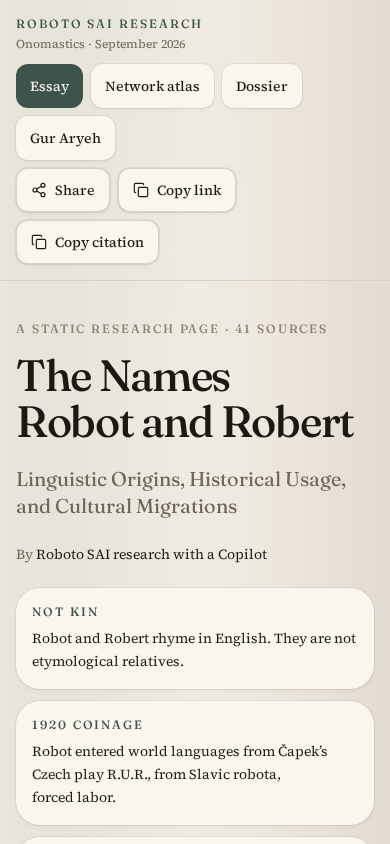
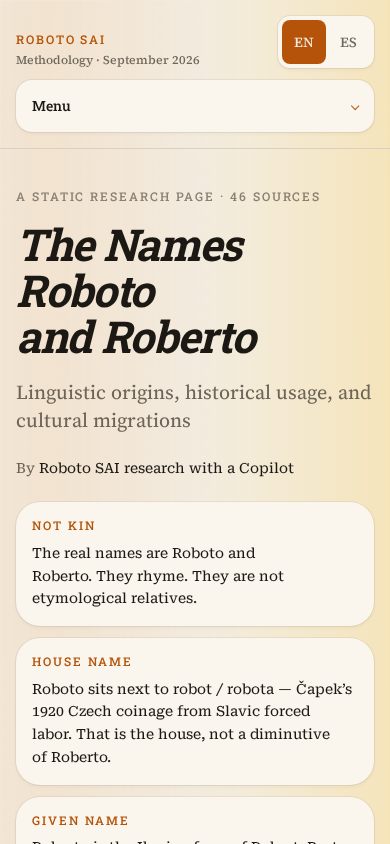
Export from Grok

diff --git a/src/styles.css b/src/styles.css
@@ -7,14 +7,25 @@
   --color-fg: #1c1915;
   --color-muted: #6d6558;
   --color-subtle: #8a8173;
-  --color-primary: #3e534c;
+  --color-primary: #b45309;
   --color-primary-fg: #f3eee4;
   --color-border: #d9d0c3;
   --color-rule: #b8ad9c;
   --color-ink-soft: #2a2620;
 
-  --font-display: "Fraunces", "Iowan Old Style", "Palatino Linotype", Palatino, serif;
-  --font-serif: "Source Serif 4", "Iowan Old Style", Georgia, serif;
+  /* Aztec Fuego tokens — roboto-sai.com apps/web/src/index.css */
+  --color-gold: #ffb800;
+  --color-gold-glow: #ffce33;
+  --color-fire: #ff5500;
+  --color-ember: #e67000;
+  --color-obsidian: #08081a;
+  --color-obsidian-light: #12122a;
+  --color-blood: #bd1111;
+  --color-fuego-red: #e60000;
+
+  --font-display: "Roboto Serif", Georgia, "Times New Roman", serif;
+  --font-serif: "Roboto Serif", Georgia, "Times New Roman", serif;
+  --font-source: "Roboto Serif", Georgia, "Times New Roman", serif;
   --font-hebrew: "Frank Ruhl Libre", "Times New Roman", serif;
 
   --radius-xs: 0.25rem;
@@ -39,6 +50,8 @@
     0px 0px 0px 1px rgba(28, 25, 21, 0.06),
     0px 1px 2px -1px rgba(28, 25, 21, 0.06),
     0px 2px 4px 0px rgba(28, 25, 21, 0.04);
+  --shadow-gold: 0 0 40px rgb(255 184 0 / 0.3);
+  --shadow-ember: 0 4px 30px rgb(230 112 0 / 0.28);
 }
 
 @layer base {
@@ -52,6 +65,8 @@
     background-color: var(--color-bg);
     color: var(--color-fg);
     font-family: var(--font-serif);
+    font-weight: 450;
+    font-optical-sizing: auto;
   }
 
   button:not(:disabled),
@@ -59,12 +74,34 @@
     cursor: pointer;
   }
 
-  h1,
+  header,
+  footer,
+  nav {
+    font-family: var(--font-serif);
+    font-weight: 500;
+    font-optical-sizing: auto;
+    font-variation-settings: "GRAD" 0;
+  }
+
+  h1 {
+    text-wrap: balance;
+    font-family: var(--font-display);
+    font-style: italic;
+    font-weight: 700;
+    font-optical-sizing: auto;
+    font-stretch: 100%;
+    font-variation-settings: "GRAD" 48;
+  }
+
   h2,
   h3,
   h4 {
     text-wrap: balance;
-    font-family: var(--font-display);
+    font-family: var(--font-serif);
+    font-style: normal;
+    font-weight: 650;
+    font-optical-sizing: auto;
+    font-variation-settings: "GRAD" 18;
   }
 
   p {
@@ -121,20 +158,35 @@
 
 .drop-cap::first-letter {
   font-family: var(--font-display);
-  font-weight: 560;
+  font-style: italic;
+  font-weight: 700;
   font-size: 4.25rem;
   line-height: 0.82;
   float: left;
   padding-right: 0.5rem;
   padding-top: 0.35rem;
-  color: var(--color-primary);
+  color: var(--color-ember);
   font-optical-sizing: auto;
+  font-variation-settings: "GRAD" 48;
+}
+
+.text-fire {
+  background-image: linear-gradient(
+    135deg,
+    var(--color-gold) 0%,
+    var(--color-ember) 46%,
+    var(--color-fire) 100%
+  );
+  -webkit-background-clip: text;
+  background-clip: text;
+  color: var(--color-ember);
+  -webkit-text-fill-color: transparent;
 }
 
 .paper-grain {
   background-image:
-    radial-gradient(ellipse at 12% -10%, color-mix(in oklab, var(--color-primary) 8%, transparent), transparent 42%),
-    radial-gradient(ellipse at 100% 0%, color-mix(in oklab, var(--color-rule) 28%, transparent), transparent 36%);
+    radial-gradient(ellipse at 12% -10%, color-mix(in oklab, var(--color-ember) 10%, transparent), transparent 42%),
+    radial-gradient(ellipse at 100% 0%, color-mix(in oklab, var(--color-gold) 18%, transparent), transparent 36%);
 }
 
 .stagger-in {
@@ -165,8 +217,8 @@
 
 .article-table th {
   text-align: left;
-  font-family: var(--font-display);
-  font-weight: 550;
+  font-family: var(--font-serif);
+  font-weight: 600;
   font-size: 0.75rem;
   letter-spacing: 0.08em;
   text-transform: uppercase;

diff --git a/src/routes/__root.tsx b/src/routes/__root.tsx
@@ -8,6 +8,29 @@ import appCss from "../styles.css?url";
 const DESCRIPTION =
   "Onomastic methodology from Roboto SAI: the names Roboto and Roberto, the 1274 Vila-real network, four clocks, Gur Aryeh, and the Temple on the Plana.";
 
+/** Same public-host guard the injector uses for og:image (no IPs, no Vercel system hosts). */
+function publicShareHost(url: string): string {
+  try {
+    const host = new URL(url).hostname.toLowerCase();
+    if (!host || !/^[a-z0-9.-]+$/.test(host) || !host.includes(".")) return "";
+    if (/^\d{1,3}(?:\.\d{1,3}){3}$/.test(host)) return "";
+    if (
+      host === "vercel.app" ||
+      host.endsWith(".vercel.app") ||
+      host === "vercel.com" ||
+      host.endsWith(".vercel.com")
+    ) {
+      return "";
+    }
+    return host;
+  } catch {
+    return "";
+  }
+}
+
+const host = publicShareHost(SITE_URL);
+const xBanner = host ? `https://${host}/x-banner.jpg` : "";
+
 export const Route = createRootRoute({
   head: () => ({
     meta: [
@@ -20,6 +43,13 @@ export const Route = createRootRoute({
       { name: "robots", content: "index, follow" },
       { name: "application-name", content: APP_SHORT_NAME },
       { name: "apple-mobile-web-app-title", content: APP_SHORT_NAME },
+      ...(xBanner
+        ? [
+            { property: "x:game:image", content: xBanner },
+            { property: "x:game:image:width", content: "1200" },
+            { property: "x:game:image:height", content: "264" },
+          ]
+        : []),
     ],
     links: [
       { rel: "canonical", href: SITE_URL },
@@ -29,7 +59,7 @@ export const Route = createRootRoute({
       { rel: "preconnect", href: "https://fonts.gstatic.com", crossOrigin: "anonymous" },
       {
         rel: "stylesheet",
-        href: "https://fonts.googleapis.com/css2?family=Fraunces:ital,opsz,wght@0,9..144,400;0,9..144,500;0,9..144,560;0,9..144,600;0,9..144,700;1,9..144,400;1,9..144,500&family=Frank+Ruhl+Libre:ital,wght@0,400;0,500;0,700;1,400&family=Source+Serif+4:ital,opsz,wght@0,8..60,400;0,8..60,500;0,8..60,600;0,8..60,700;1,8..60,400;1,8..60,600&display=swap",
+        href: "https://fonts.googleapis.com/css2?family=Frank+Ruhl+Libre:ital,wght@0,400;0,500;0,700;1,400&family=Roboto+Serif:GRAD,ital,opsz,wdth,wght@-50..100,0,8..144,50..150,100..900;-50..100,1,8..144,50..150,100..900&display=swap",
       },
       { rel: "stylesheet", href: appCss },
       { rel: "manifest", href: "/manifest.webmanifest" },

diff --git a/src/routes/lion.tsx b/src/routes/lion.tsx
@@ -87,10 +87,10 @@ function LionPage() {
           <p className="stagger-in font-display text-kicker font-medium tracking-kicker text-subtle uppercase">
             {copy.kicker} · {LION_META.sourceCount} {copy.sources}
           </p>
-          <h1 className="stagger-in mt-4 max-w-4xl font-display text-display font-medium tracking-display text-fg sm:text-display-lg">
+          <h1 className="stagger-in mt-4 max-w-4xl font-display text-display font-bold italic tracking-display text-fire sm:text-display-lg">
             {LION_META.title}
           </h1>
-          <p className="stagger-in mt-5 max-w-2xl font-display text-xl leading-snug text-muted sm:text-2xl">
+          <p className="stagger-in mt-5 max-w-2xl font-serif text-xl font-normal leading-snug text-muted sm:text-2xl">
             {LION_META.subtitle}
           </p>
           <p className="stagger-in mt-6 text-sm text-muted">

diff --git a/src/routes/index.tsx b/src/routes/index.tsx
@@ -102,10 +102,10 @@ function ResearchPage() {
           <p className="stagger-in font-display text-kicker font-medium tracking-kicker text-subtle uppercase">
             {home.kicker} · {META.sourceCount} {home.sources}
           </p>
-          <h1 className="stagger-in mt-4 max-w-4xl font-display text-display font-medium tracking-display text-fg sm:text-display-lg">
+          <h1 className="stagger-in mt-4 max-w-4xl font-display text-display font-bold italic tracking-display text-fire sm:text-display-lg">
             {home.title}
           </h1>
-          <p className="stagger-in mt-5 max-w-2xl font-display text-xl leading-snug text-muted sm:text-2xl">
+          <p className="stagger-in mt-5 max-w-2xl font-serif text-xl font-normal leading-snug text-muted sm:text-2xl">
             {home.subtitle}
           </p>
           <p className="stagger-in mt-6 text-sm text-muted">

diff --git a/src/routes/brief.tsx b/src/routes/brief.tsx
@@ -37,10 +37,10 @@ function BriefPage() {
         <p className="stagger-in font-display text-kicker font-medium tracking-kicker text-subtle uppercase">
           {meta.kicker}
         </p>
-        <h1 className="stagger-in mt-4 font-display text-display font-medium tracking-display text-fg sm:text-display-lg">
+        <h1 className="stagger-in mt-4 font-display text-display font-bold italic tracking-display text-fire sm:text-display-lg">
           {meta.title}
         </h1>
-        <p className="stagger-in mt-5 font-display text-xl leading-snug text-muted sm:text-2xl">{meta.subtitle}</p>
+        <p className="stagger-in mt-5 font-serif text-xl font-normal leading-snug text-muted sm:text-2xl">{meta.subtitle}</p>
         <p className="stagger-in mt-6 text-sm text-muted">
           {chrome.ui.by} <span className="text-fg">{META.credit}</span>
         </p>

diff --git a/src/routes/templars.tsx b/src/routes/templars.tsx
@@ -56,10 +56,10 @@ function TemplarPage() {
           <p className="stagger-in font-display text-kicker font-medium tracking-kicker text-subtle uppercase">
             {meta.kicker}
           </p>
-          <h1 className="stagger-in mt-4 max-w-4xl font-display text-display font-medium tracking-display text-fg sm:text-display-lg">
+          <h1 className="stagger-in mt-4 max-w-4xl font-display text-display font-bold italic tracking-display text-fire sm:text-display-lg">
             {meta.title}
           </h1>
-          <p className="stagger-in mt-5 max-w-2xl font-display text-xl leading-snug text-muted sm:text-2xl">
+          <p className="stagger-in mt-5 max-w-2xl font-serif text-xl font-normal leading-snug text-muted sm:text-2xl">
             {meta.subtitle}
           </p>
           <p className="stagger-in mt-6 text-sm text-muted">

diff --git a/src/routes/rovox.tsx b/src/routes/rovox.tsx
@@ -31,7 +31,7 @@ function RoVoxPage() {
       <SiteHeader />
       <main className="mx-auto max-w-6xl px-4 py-10 sm:px-6 sm:py-14">
         <p className="stagger-in font-display text-kicker font-medium tracking-kicker text-subtle uppercase">{copy.kicker}</p>
-        <h1 className="stagger-in mt-4 max-w-3xl font-display text-display font-medium tracking-display text-fg sm:text-display-lg">
+        <h1 className="stagger-in mt-4 max-w-3xl font-display text-display font-bold italic tracking-display text-fire sm:text-display-lg">
           {copy.title}
         </h1>
         <p className="stagger-in mt-5 max-w-2xl text-lg leading-relaxed text-muted">{copy.lead}</p>

diff --git a/src/routes/dossier.tsx b/src/routes/dossier.tsx
@@ -40,7 +40,7 @@ function DossierPage() {
 
       <main className="mx-auto max-w-6xl px-4 py-10 sm:px-6 sm:py-14">
         <p className="font-display text-kicker font-medium tracking-kicker text-subtle uppercase">{copy.kicker}</p>
-        <h1 className="mt-4 max-w-3xl font-display text-display font-medium tracking-display text-fg sm:text-display-lg">
+        <h1 className="mt-4 max-w-3xl font-display text-display font-bold italic tracking-display text-fire sm:text-display-lg">
           {copy.title}
         </h1>
         <p className="mt-5 max-w-2xl text-lg leading-relaxed text-muted">{copy.lead}</p>

diff --git a/src/routes/atlas.tsx b/src/routes/atlas.tsx
@@ -41,7 +41,7 @@ function AtlasPage() {
 
       <main className="mx-auto max-w-6xl px-4 py-10 sm:px-6 sm:py-14">
         <p className="font-display text-kicker font-medium tracking-kicker text-subtle uppercase">{copy.kicker}</p>
-        <h1 className="mt-4 max-w-3xl font-display text-display font-medium tracking-display text-fg sm:text-display-lg">
+        <h1 className="mt-4 max-w-3xl font-display text-display font-bold italic tracking-display text-fire sm:text-display-lg">
           {copy.title}
         </h1>
         <p className="mt-5 max-w-2xl text-lg leading-relaxed text-muted">
